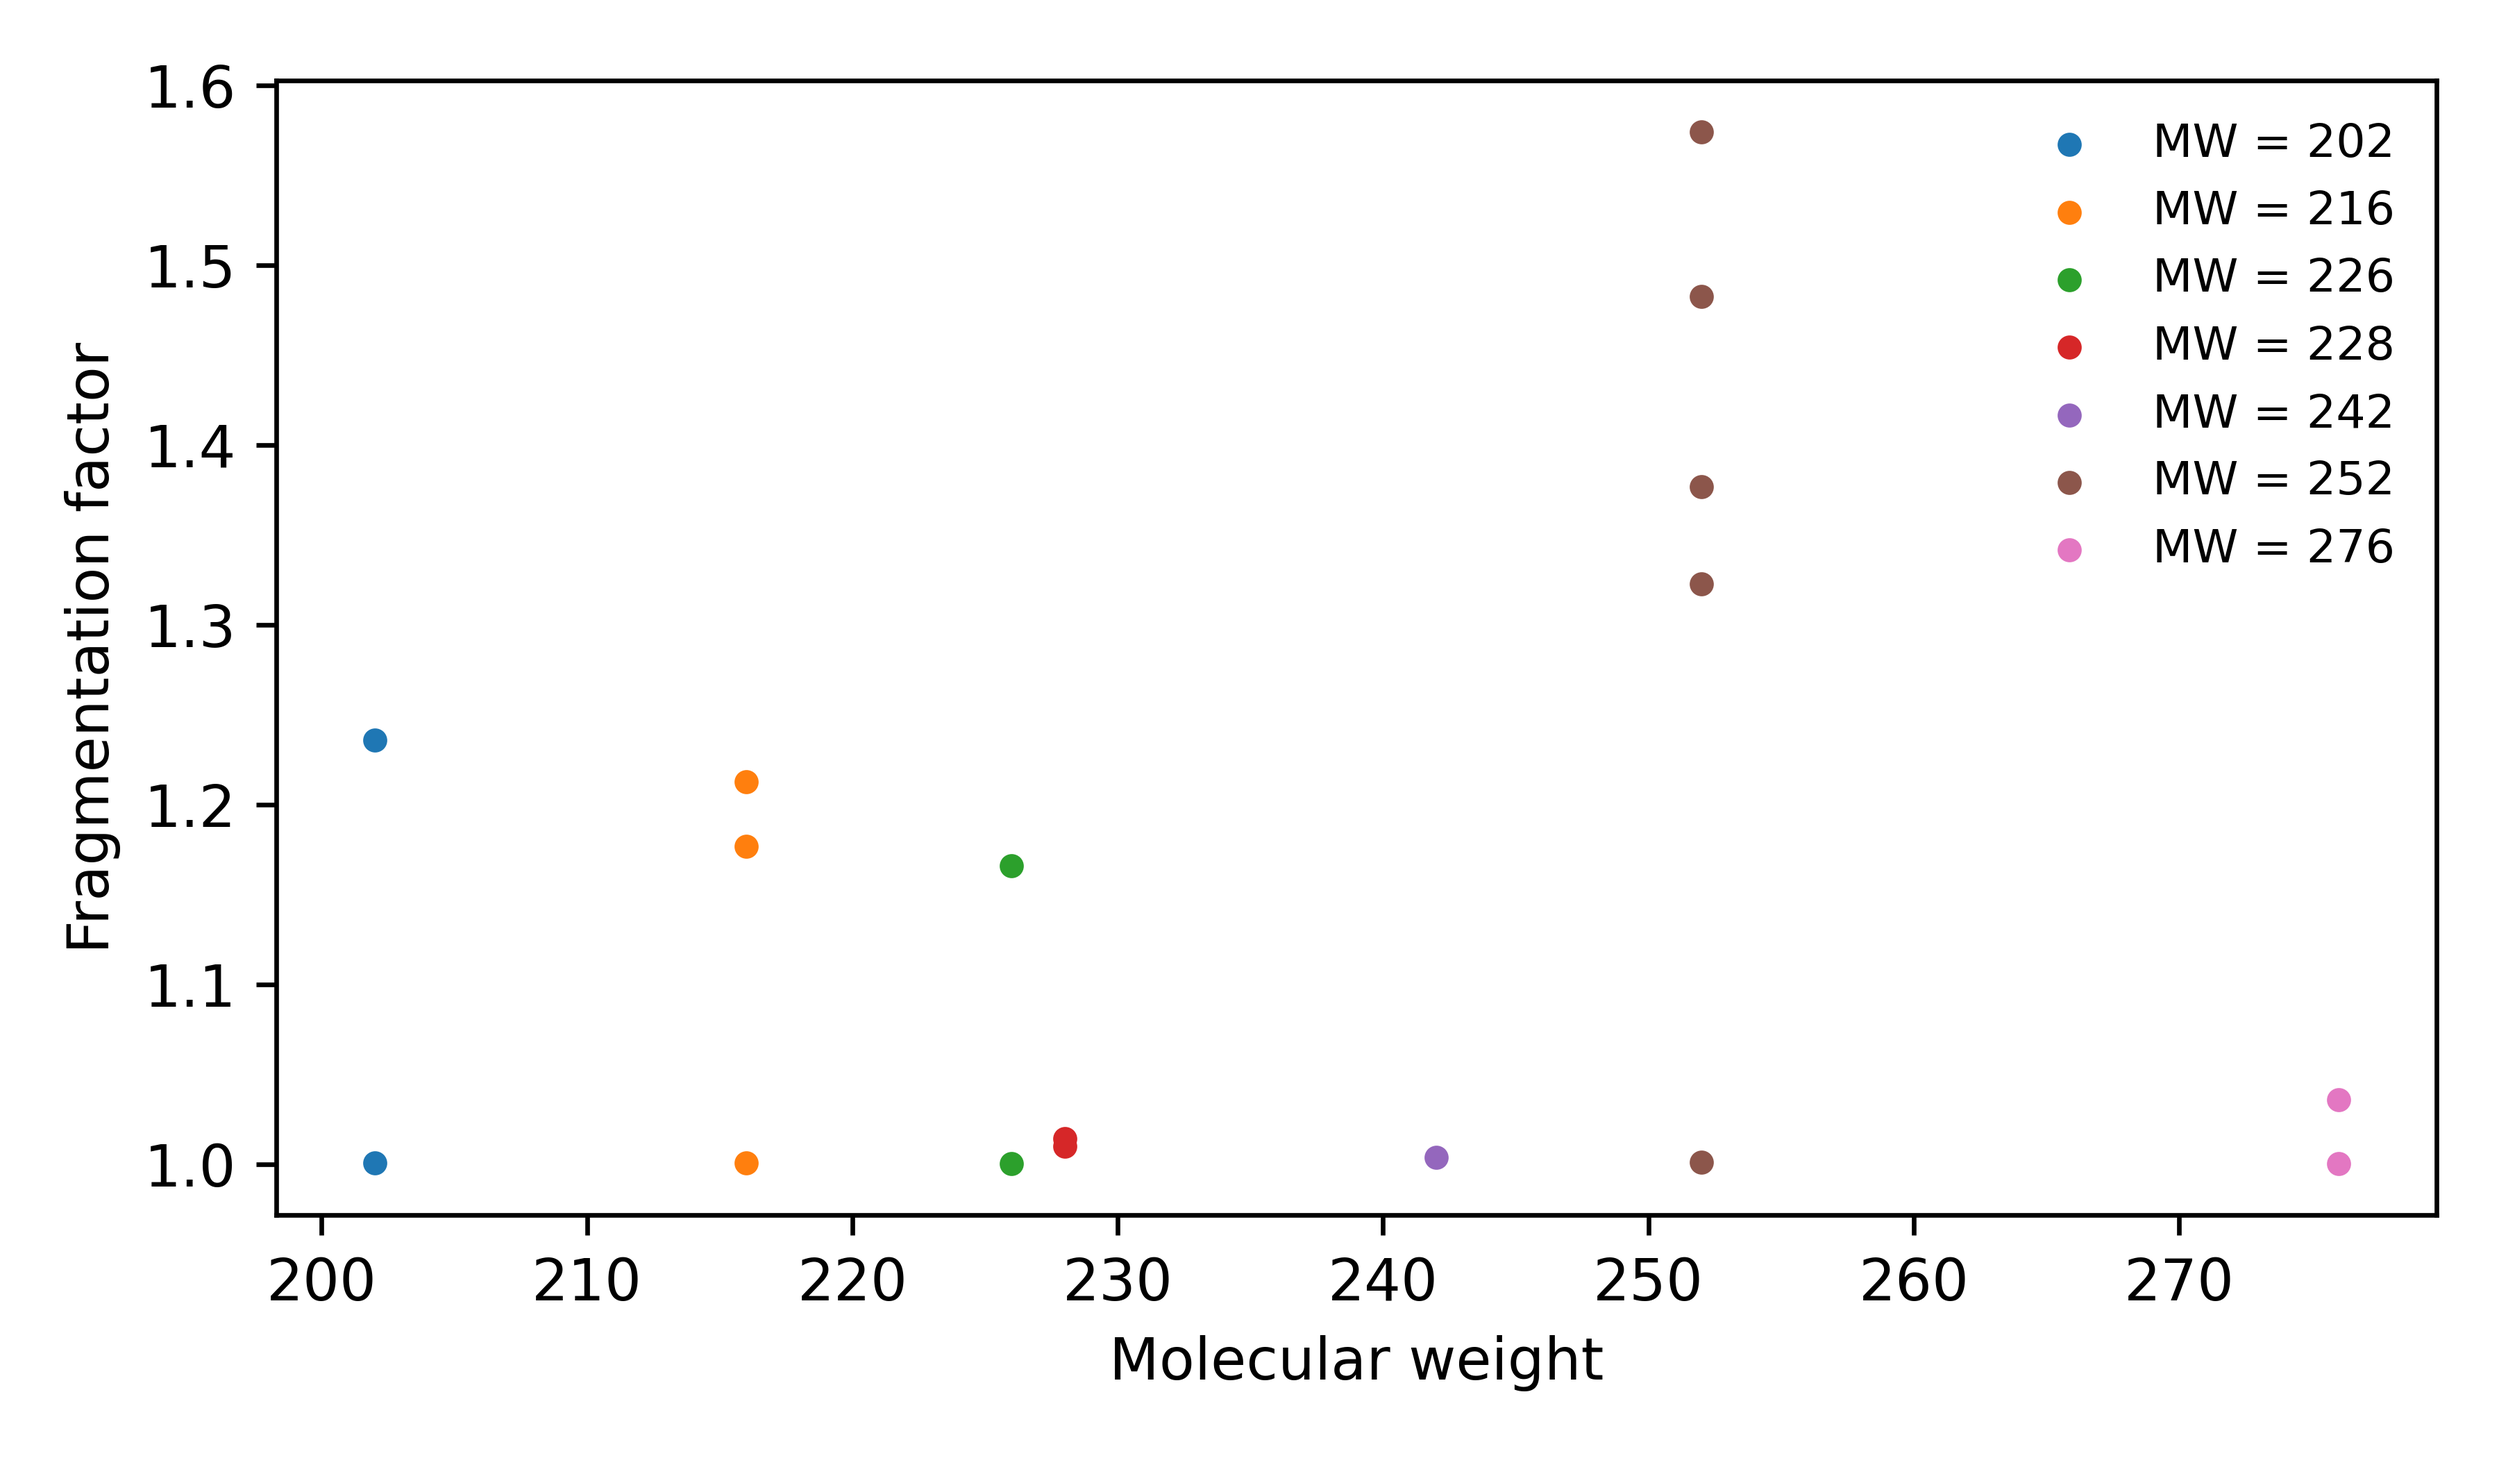
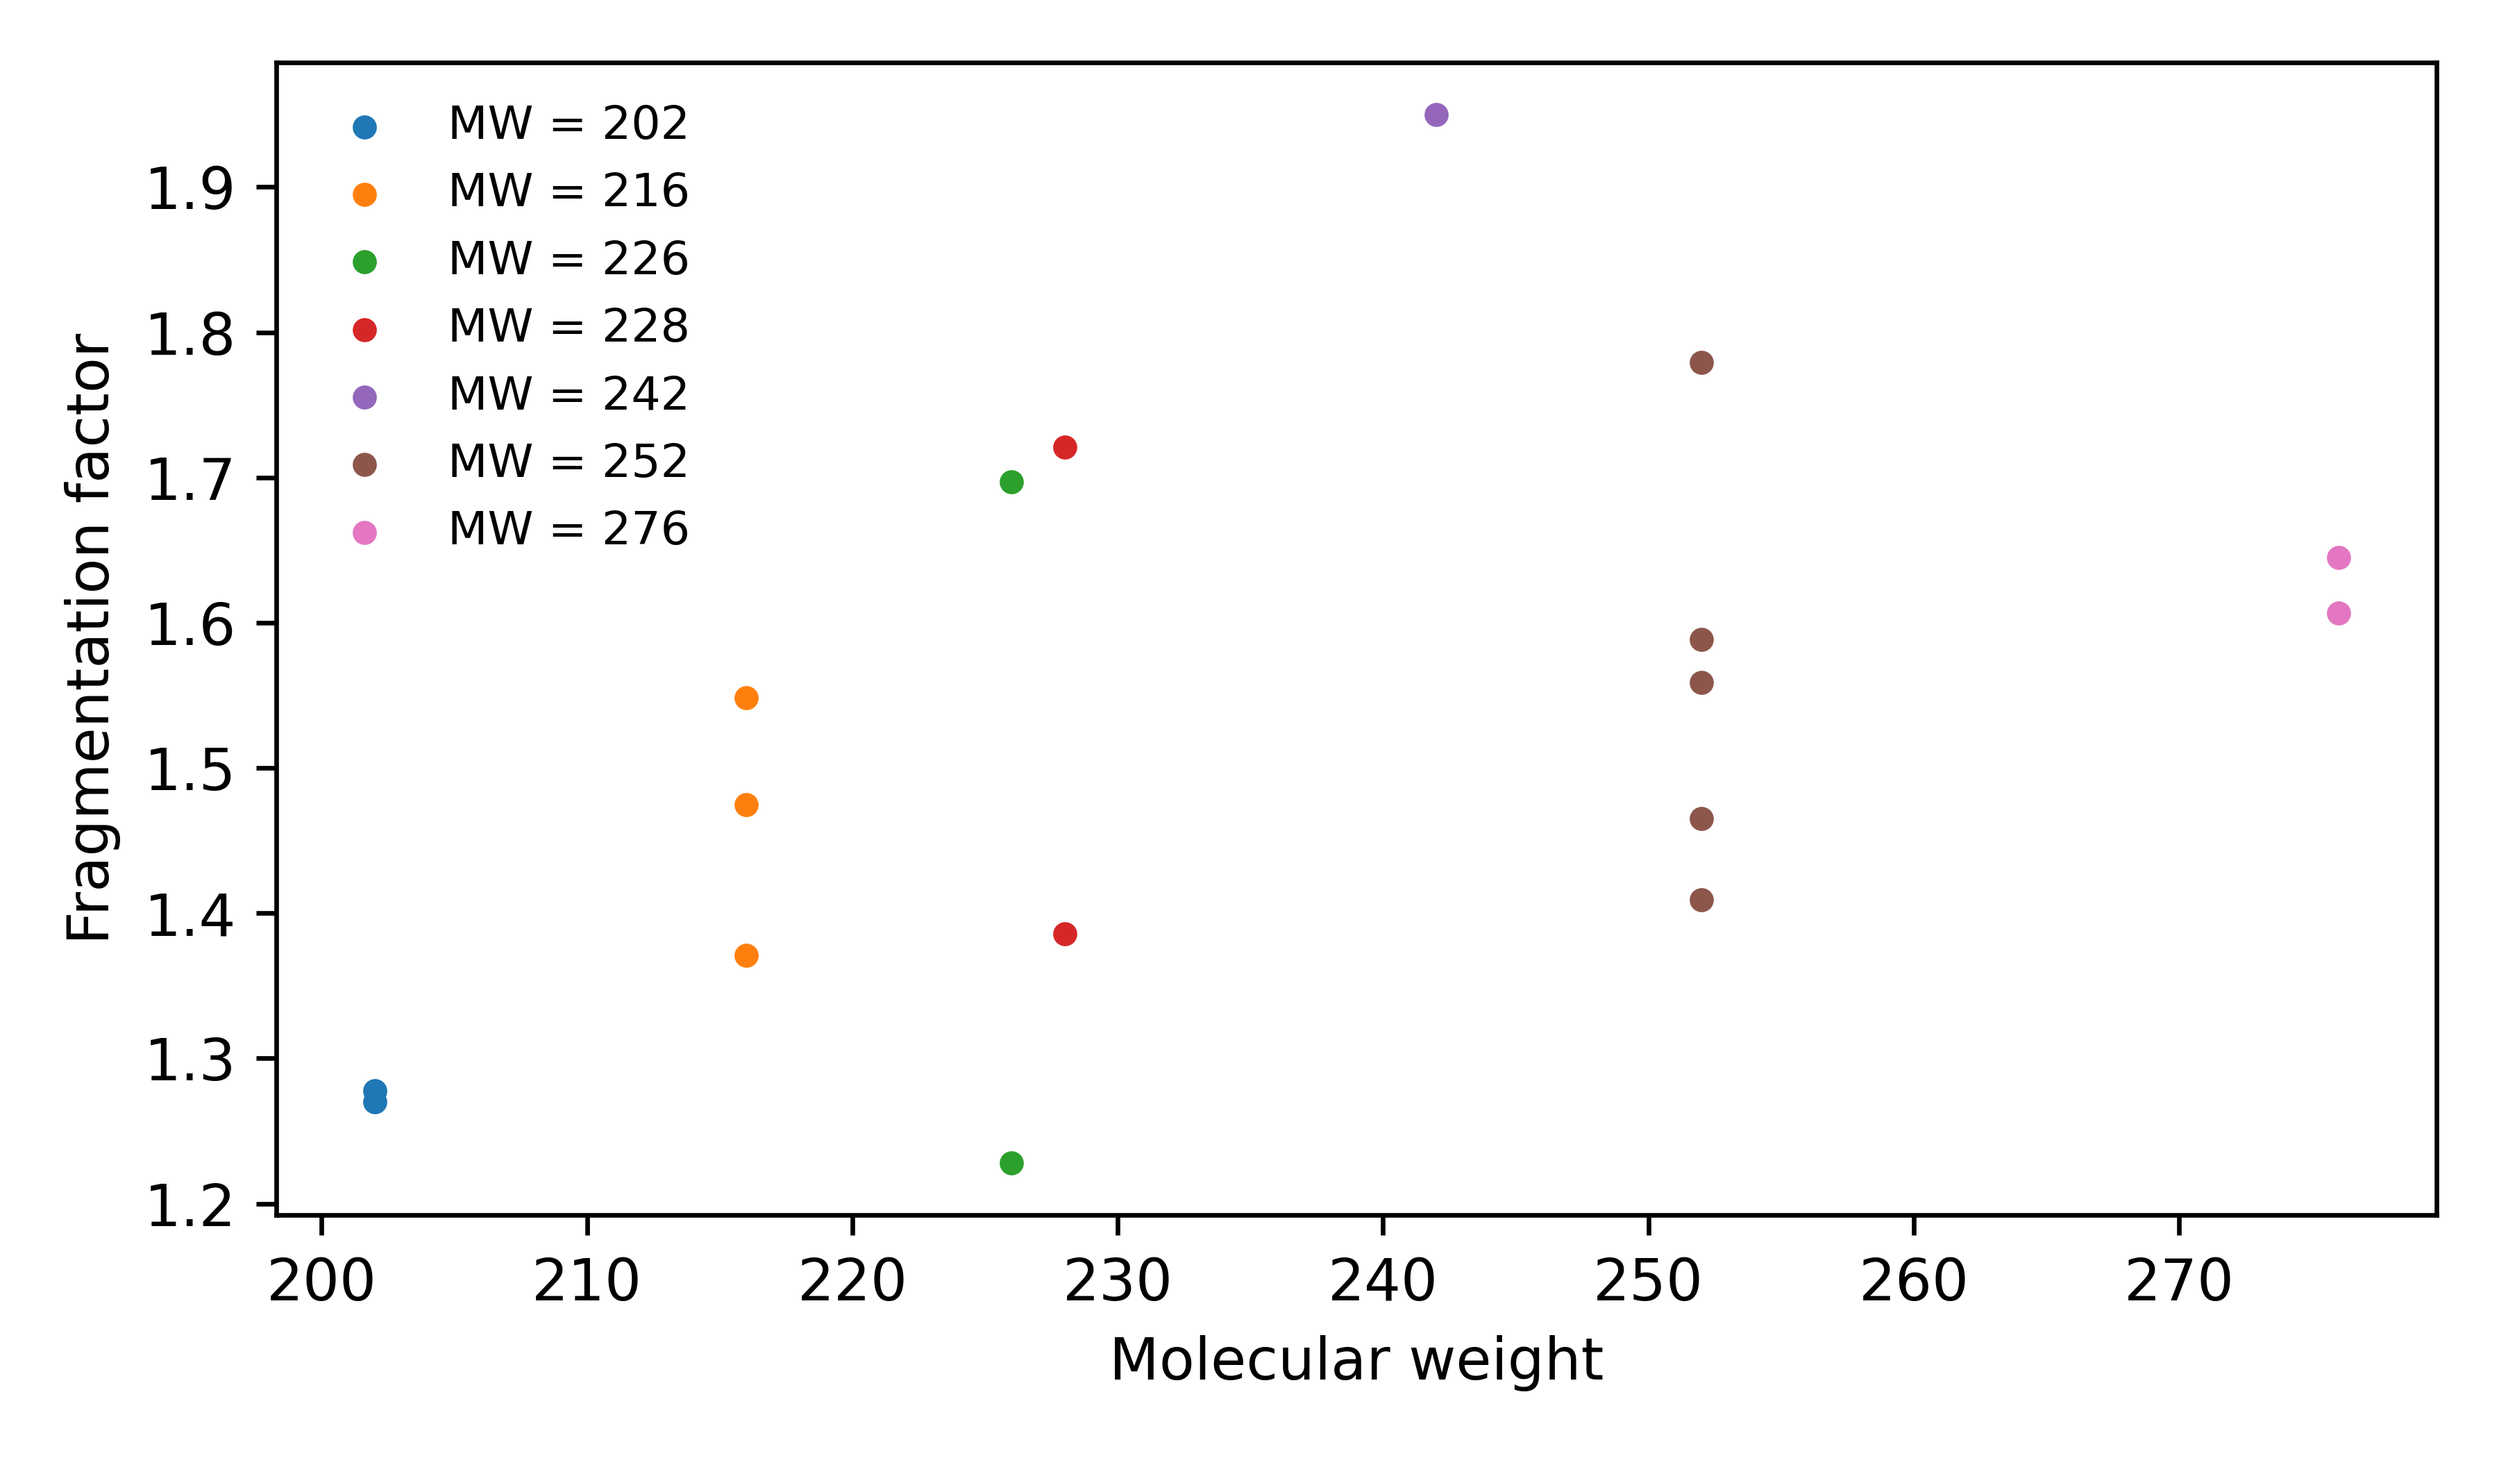
edit

diff --git a/NIST.py b/NIST.py
@@ -95,20 +95,23 @@ def Fracmentation_factor(species_list, data, molecular_weights):
 
         for j, key in enumerate(merged.keys()[1:]):
             mol_idx = merged[key].idxmax()
-            Main_group = []
+            
+            # Main_group = []
 
-            for i in range(len(merged[key][:mol_idx])):
-                rel_int = merged[key][mol_idx-i]
-                if rel_int != 0:
-                    Main_group.append(rel_int)
-                if rel_int == 0:
-                    break
-            for i in range(len(merged[key])):
-                if i > mol_idx:
-                    Main_group.append(merged[key][i])
+            # for i in range(len(merged[key][:mol_idx])):
+            #     rel_int = merged[key][mol_idx-i]
+            #     if rel_int != 0:
+            #         Main_group.append(rel_int)
+            #     if rel_int == 0:
+            #         break
+            # for i in range(len(merged[key])):
+            #     if i > mol_idx:
+            #         Main_group.append(merged[key][i])
+
+            main = merged[key][mol_idx] + merged[key][mol_idx+1] + merged[key][mol_idx-1] + merged[key][mol_idx+2] + merged[key][mol_idx-2]
 
             full_sum[j] += np.sum(merged[key])
-            sum_MolIon[j] += np.sum(Main_group)
+            sum_MolIon[j] += main       # np.sum(Main_group)
             FF[j] += full_sum[j] / sum_MolIon[j]
         
         for j, f in enumerate(full_sum):
